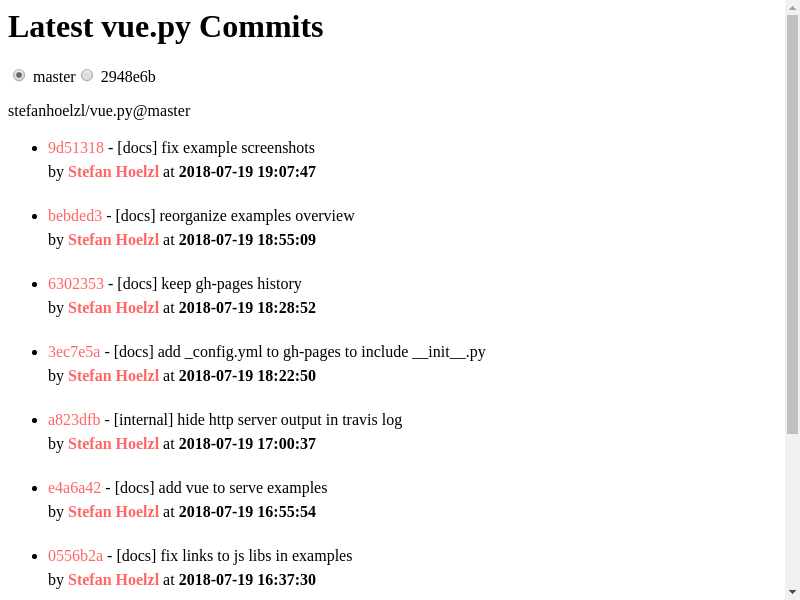
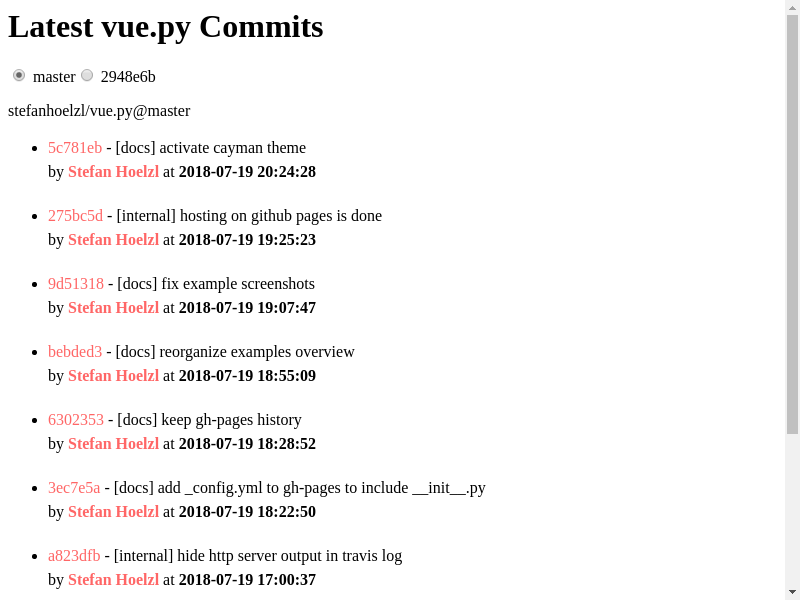
Deploy stefanhoelzl/vue.py to github.com/stefanhoelzl/vue.py.git:gh-pages

diff --git a/_layouts/default.html b/_layouts/default.html
@@ -1,0 +1,33 @@
+<!DOCTYPE html>
+<html lang="{{ site.lang | default: "en-US" }}">
+  <head>
+    <meta charset="UTF-8">
+
+{% seo %}
+    <meta name="viewport" content="width=device-width, initial-scale=1">
+    <meta name="theme-color" content="#157878">
+    <meta name="apple-mobile-web-app-status-bar-style" content="black-translucent">
+    <link rel="stylesheet" href="{{ '/assets/css/style.css?v=' | append: site.github.build_revision | relative_url }}">
+  </head>
+  <body>
+    <a id="skip-to-content" href="#content">Skip to the content.</a>
+
+    <header class="page-header" role="banner">
+      <h1 class="project-name">{{ site.title | default: site.github.repository_name }}</h1>
+      <h2 class="project-tagline">{{ site.description | default: site.github.project_tagline }}</h2>
+        <a href="{{ site.github.repository_url }}" class="btn">View on GitHub</a>
+        {%- for nav_item in site.navigation -%}
+          <a href="{{ nav_item.link | relative_url }}" class="btn">{{ nav_item.title }}</a>
+        {%- endfor -%}
+    </header>
+
+    <main id="content" class="main-content" role="main">
+      {{ content }}
+
+      <footer class="site-footer">
+        <span class="site-footer-owner"><a href="{{ site.github.repository_url }}">{{ site.github.repository_name }}</a> is maintained by <a href="{{ site.github.owner_url }}">{{ site.github.owner_name }}</a>.</span>
+        <span class="site-footer-credits">This page was generated by <a href="https://pages.github.com">GitHub Pages</a>.</span>
+      </footer>
+    </main>
+  </body>
+</html>

diff --git a/planning.md b/planning.md
@@ -8,8 +8,6 @@
 * ...
 
 ## Docs
-* host on gh-pages
-  *  live examples possible (jsfiddle?)
 
 ## Tools
 * cmd line tool to init vue.py project
